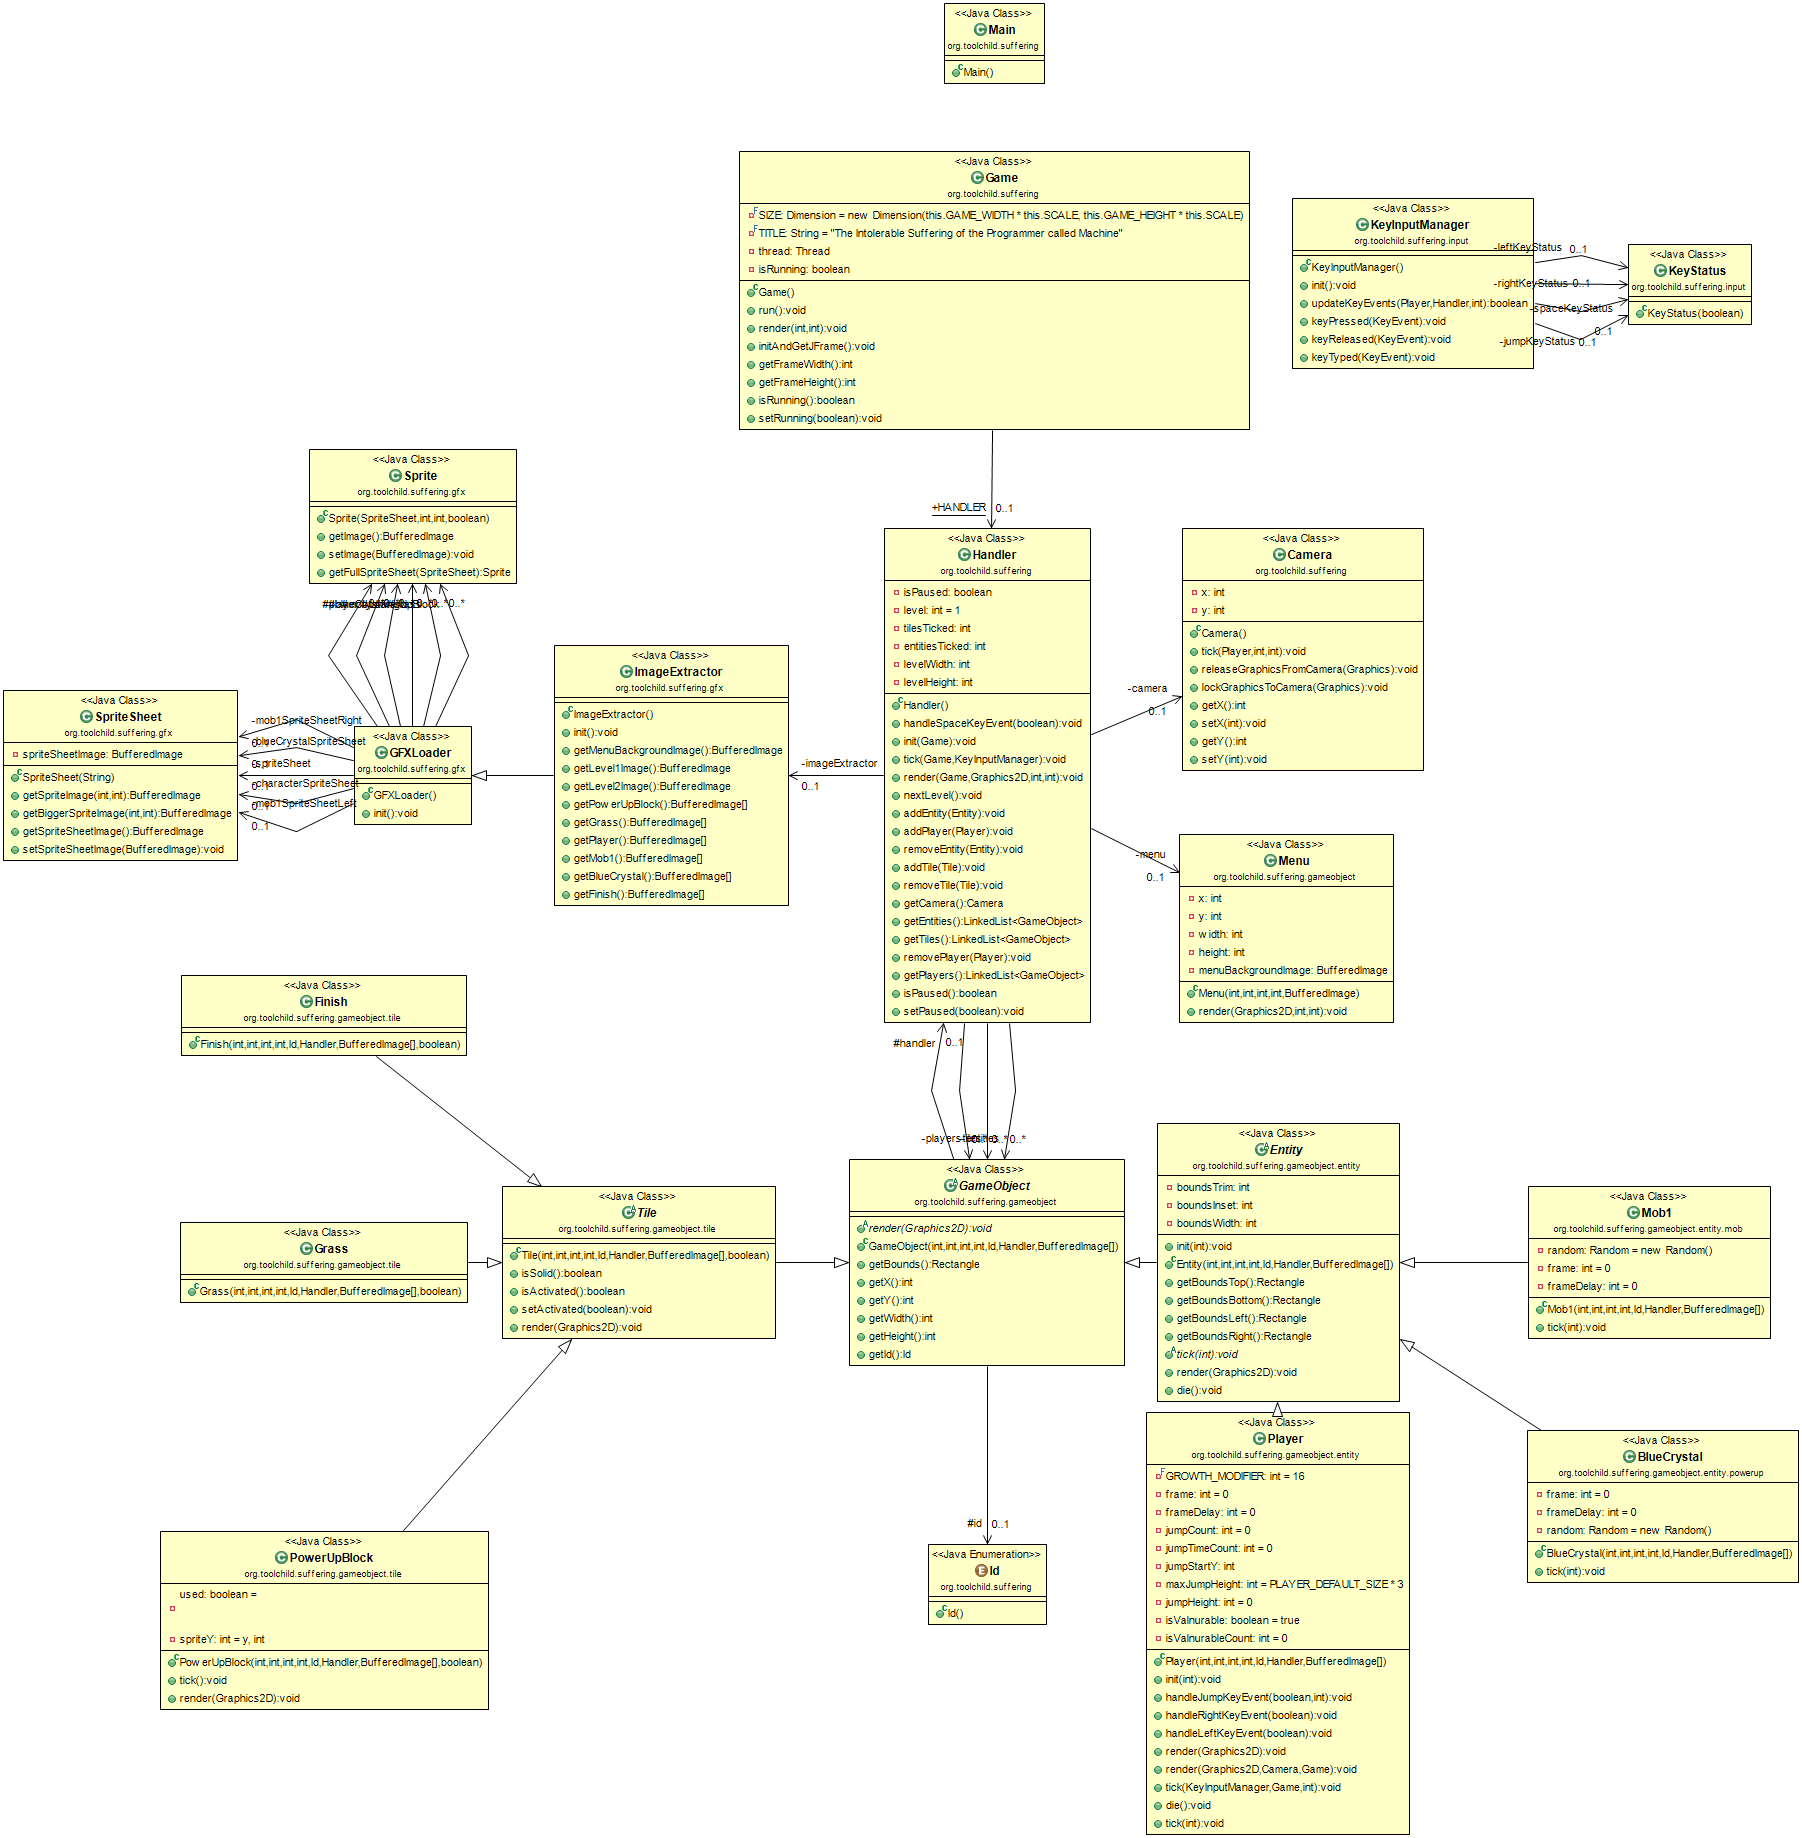
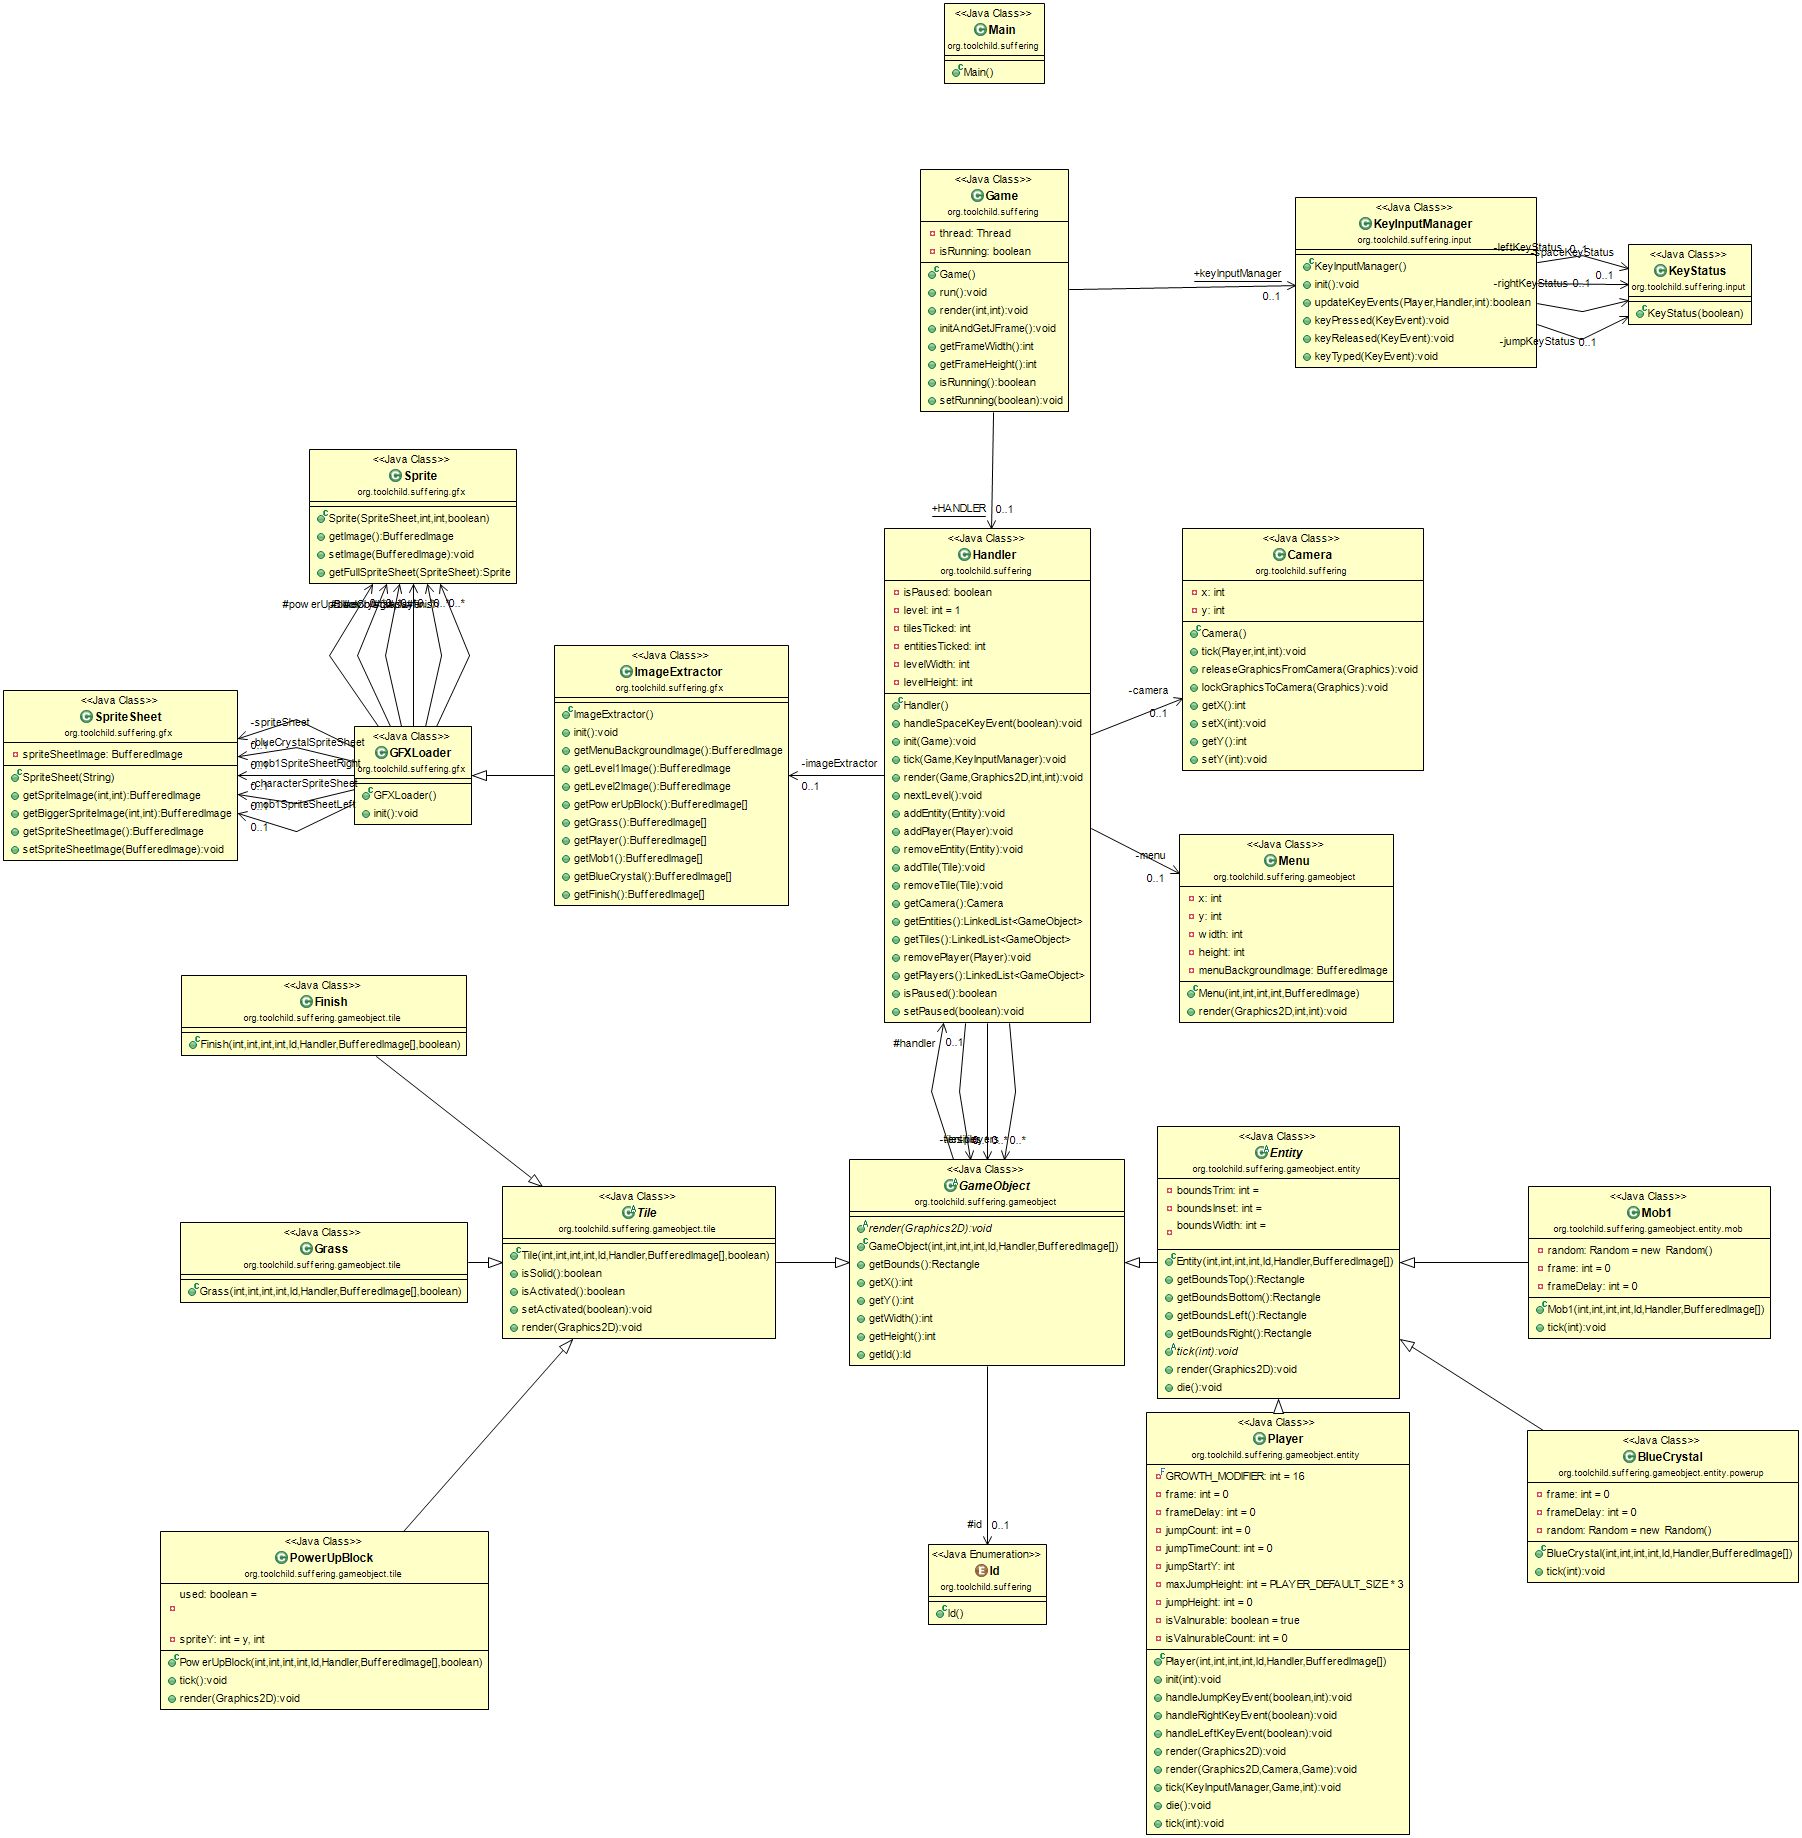
#mod: cleanup

diff --git a/TheIntolerableSufferingOfTheProgrammerCalledMachine/src/main/java/org/toolchild/suffering/Game.java b/TheIntolerableSufferingOfTheProgrammerCalledMachine/src/main/java/org/toolchild/suffering/Game.java
@@ -17,14 +17,12 @@ public class Game extends Canvas implements Runnable {
   private static final long     serialVersionUID = 5680154129348532365L;
   private static final Logger   log              = LogManager.getLogger(Game.class);
 
-  public final int              TICKS_PER_SECOND = 60;                                                                                                                                                                                                     // multiple of 60
-  public final int              SPEED_MODIFIER   = 60 / this.TICKS_PER_SECOND;                                                                                                                                                                                                                                                        // not done yet
+  public final int              TICKS_PER_SECOND = 60;                                                                                                                                                                                                                                                                                             // multiple of 60
+  public final int              SPEED_MODIFIER   = 60 / this.TICKS_PER_SECOND;                                                                                                                                                                                                                                                                                                // not done yet
 
   public final int              GAME_WIDTH       = 64;
   public final int              SCALE            = 24;
   public final int              GAME_HEIGHT      = this.GAME_WIDTH / 16 * 9;
-  private final Dimension       SIZE             = new Dimension(this.GAME_WIDTH * this.SCALE, this.GAME_HEIGHT * this.SCALE);
-  private final String          TITLE            = "The Intolerable Suffering of the Programmer called Machine";
 
   private Thread                thread;
   private boolean               isRunning;
@@ -33,9 +31,10 @@ public class Game extends Canvas implements Runnable {
   public static KeyInputManager keyInputManager;
 
   public Game() {
-    setPreferredSize(this.SIZE);
-    setMaximumSize(this.SIZE);
-    setMinimumSize(this.SIZE);
+    Dimension size = new Dimension(this.GAME_WIDTH * this.SCALE, this.GAME_HEIGHT * this.SCALE);
+    setPreferredSize(size);
+    setMaximumSize(size);
+    setMinimumSize(size);
   }
 
   /**
@@ -154,7 +153,7 @@ public class Game extends Canvas implements Runnable {
   }
 
   public void initAndGetJFrame() {
-    JFrame frame = new JFrame(this.TITLE);
+    JFrame frame = new JFrame("The Intolerable Suffering of the Programmer called Machine");
     // frame.setUndecorated(true); //this must be switched by a configuration.
     frame.add(this);
 
